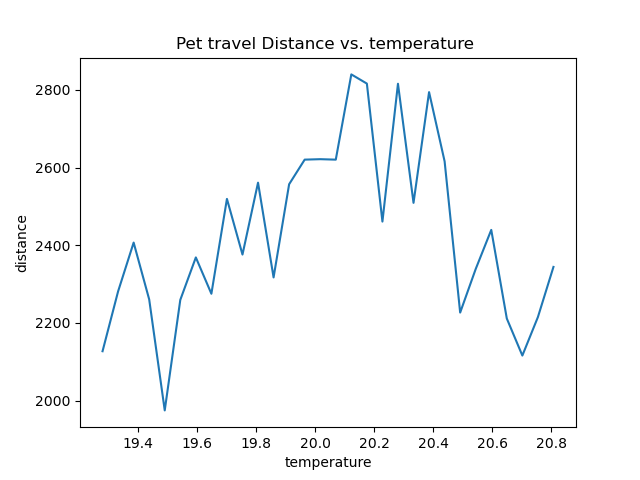
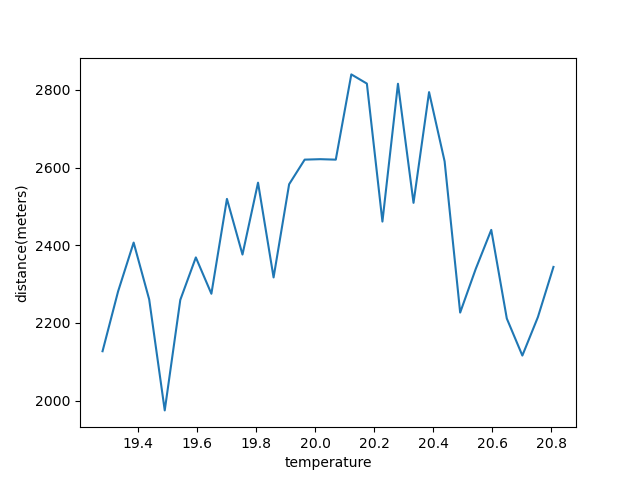
new

Changed region(s): [[0.2812, 0.0625, 0.75, 0.125], [0.0, 0.375, 0.0625, 0.625]]

diff --git a/plotApplication.py b/plotApplication.py
@@ -14,7 +14,7 @@ def plotModelCSM(modelName,df): #CSM
     #plt.figure(figsize=(8,5))
     ax = plt.subplot(1,1,1)
     title = modelName + '_CSM'
-    plt.title(title)
+    #plt.title(title)
     plotSub(x,csm,ax,label='CSM')
     
     plt.xticks(np.arange(1, 12))
@@ -25,12 +25,41 @@ def plotModelCSM(modelName,df): #CSM
     plt.savefig(gRes+title+'.png')
     plt.show()
     
+def plotModelCSMAx(modelName,ax,df,label='',c='b'): #CSM
+    x = df.loc[:,['K']].values #K
+    csm = df.loc[:,['CSM']]
+    
+    #plt.figure(figsize=(8,5))
+    #title = modelName + '_CSM'
+    #plt.title(title)
+    plotSub(x,csm,ax,label=label,c=c)
+    
+    plt.xticks(np.arange(1, 12))
+    ax.set_ylabel('Silhouette coefficient')
+    ax.set_xlabel('K clusters')
+    
+def plotModelTimeTakenAx(modelName,ax,df,label='',c='b'): #CSM
+    x = df.loc[:,['K']].values #K
+    tt = df.loc[:,['tt(s)']]
+    
+    #plt.figure(figsize=(8,5))
+    #title = modelName + '_CSM'
+    #plt.title(title)
+    plotSub(x,tt,ax,label=label,c=c)
+    
+    plt.xticks(np.arange(1, 12))
+    ax.set_ylabel('Time taken(s)')
+    ax.set_xlabel('K clusters')
+    
+    
 def trackingPlot(df,date='2020-06-01'): ##per day
     ax = plt.subplot(1,1,1)
     trackingPlotAx(ax,df,date,title='Pet tracking'+' ' + date)
     plt.legend()
     plt.subplots_adjust(left=0.18, bottom=None, right=None, top=None, wspace=None, hspace=None)
     plt.grid()
+    plt.xlabel('Longitude')
+    plt.ylabel('Latitude')
     plt.savefig(gRes+'locationTracking_'+date+'.png')
     plt.show()
     
@@ -43,7 +72,7 @@ def trackingPlotAx(ax,df,date='2020-06-01',title='Pet tracking'):
     
     #plt.figure(figsize=(8,5))
     #ax.set_title('Pet tracking'+' ' + date)
-    ax.set_title(title)
+    #ax.set_title(title)
     if 1:
         plotSub(lg,lt,ax,label='GPS locations',c='k')
         scatterSub(lg,lt,ax,marker='o',c='b')
@@ -95,7 +124,7 @@ def plotPdColumn(index,data,title,label,color=None,xlabel='',ylabel='',width=0.6
     fontsize = 8
     ax = plt.subplot(1,1,1)
     
-    ax.set_title(title) #,fontsize=fontsize
+    #ax.set_title(title) #,fontsize=fontsize
     #ax.barh(dfWorld.index,dfWorld['Cases'])
     if color:
         ax.bar(index,data,label=label,width=width,color=color)
@@ -134,9 +163,9 @@ def plotWeekDayDistanceAndTimeLen(df):
     dfStatisticWeekDay['timeLen'] =  dfStatisticWeekDay['timeLen']/60
     
     dfStatisticWeekDay.to_csv(r'./db/statistic_weekday_result.csv',index=True)
-    plotPdColumn(dfStatisticWeekDay['weekDay'],dfStatisticWeekDay['timeLen'],title='Pet mean travel time every weekday(miniutes)',label='travel_time',xlabel='WeekDay',ylabel='timeLen',width=0.35)
+    plotPdColumn(dfStatisticWeekDay['weekDay'],dfStatisticWeekDay['timeLen'],title='Pet mean travel time every weekday(miniutes)',label='travel_time',xlabel='WeekDay',ylabel='timeLen(miniutes)',width=0.35)
     #plotPdColumn(dfStatisticWeekDay['weekDay'],dfStatisticWeekDay['temperature_mean'],title='Mean temperature every weekday when pet travel',label='temperature',xlabel='WeekDay',ylabel='temperature')
-    plotPdColumn(dfStatisticWeekDay['weekDay'],dfStatisticWeekDay['distance_weekday'],title='Pet mean travel distance every weekday(meters)',label='weekday_distance',xlabel='WeekDay',ylabel='distance',width=0.35)
+    plotPdColumn(dfStatisticWeekDay['weekDay'],dfStatisticWeekDay['distance_weekday'],title='Pet mean travel distance every weekday(meters)',label='weekday_distance',xlabel='WeekDay',ylabel='distance(meters)',width=0.35)
     
 def plotDateDistanceAndTimeLen(df):
     #df = binaryDf(df,False)
@@ -146,8 +175,8 @@ def plotDateDistanceAndTimeLen(df):
     df = df.iloc[-1*30:,:]
     
     df['timeLen'] =  df['timeLen']/60
-    plotPdColumn(df['date'],df['timeLen'],title='Pet travel time every day(miniutes)',label='travel_time',xlabel='Date',ylabel='timeLen')
-    plotPdColumn(df['date'],df['distance_day'],title='Pet travel distance every day(meters)',label='travel_distance',xlabel='Date',ylabel='distance')
+    plotPdColumn(df['date'],df['timeLen'],title='Pet travel time every day(miniutes)',label='travel_time',xlabel='Date',ylabel='timeLen(miniutes)')
+    plotPdColumn(df['date'],df['distance_day'],title='Pet travel distance every day(meters)',label='travel_distance',xlabel='Date',ylabel='distance(meters)')
     
 def plotTempAndDistance(df):
     def HandelTempAndDistance(df,N=2):
@@ -173,13 +202,13 @@ def plotTempAndDistance(df):
     df = HandelTempAndDistance(df)
     #print(df)
     
-    plot(df['temperature_mean'],df['distance_day'],title='Pet travel Distance vs. temperature ',xlabel='temperature',ylabel='distance')
+    plot(df['temperature_mean'],df['distance_day'],title='Pet travel Distance vs. temperature ',xlabel='temperature',ylabel='distance(meters)')
     
 def plot(x,y,title='',xlabel='',ylabel=''):
     global gIndex
     x = np.linspace(np.min(x),np.max(x),len(y))
     #plt.scatter(x,y)
-    plt.title(title)
+    #plt.title(title)
     plt.plot(x,y)
     plt.xlabel(xlabel)
     plt.ylabel(ylabel)
@@ -193,11 +222,78 @@ def plotAll(df):
     plotTempAndDistance(df)
     pass
 
+def plotClustering():
+    df1 = getCsv('./db/KMeans_result.csv')
+    df2 = getCsv('./db/Agglomerative_result.csv')
+    #plotModelCSM('A',df1)
+    #plotModelCSM('K',df2)
+    
+    ax = plt.subplot(1,1,1)
+    plotModelCSMAx('K',ax,df1,label='K-Means')
+    plotModelCSMAx('A',ax,df2,label='Agglomerative',c='r')
+    ax.legend()
+    ax.grid()
+    plt.savefig(gRes+'KA.png')
+    plt.show()
+    
+    ax = plt.subplot(1,1,1)
+    plotModelTimeTakenAx('K',ax,df1,label='K-Means')
+    plotModelTimeTakenAx('A',ax,df2,label='Agglomerative',c='r')
+    ax.legend()
+    ax.grid()
+    plt.savefig(gRes+'KATt.png')
+    plt.show()
+    
+def plotCLusteringResult(rawData, labels):
+    cluster_labels = np.unique(labels)
+    print('cluster_labels=',cluster_labels)
+    # print(rawData.shape)
+    # print(rawData[:5])
+    # print(labels.shape)
+    # print(labels)
+    ax = plt.subplot(1,1,1)
+    centroids = []
+    for i in cluster_labels:
+        lines = np.where(labels == i)
+        print(i,len(lines[0].flatten()))
+        #print(lines[0])
+        data = rawData.iloc[lines[0],:]
+        #print(data)
+        if 0:
+            latitudeCenter = round(np.mean(data['latitude']),8)
+            longitudeCenter = round(np.mean(data['longitude']),8)
+            x = data['latitude']
+            y = data['longitude']
+        else:
+            latitudeCenter = round(np.mean(data['latitude_center']),8)
+            longitudeCenter = round(np.mean(data['longitude_center']),8)
+            x = data['latitude_center']
+            y = data['longitude_center']
+        #ax.scatter(data['latitude_center'],data['longitude_center'])
+        
+        ax.scatter(x,y)
+        ax.scatter(latitudeCenter,longitudeCenter, s=50, c='lightgreen', marker='s', edgecolor='black', label='cluster center'+str(i))    
+        # if i==0:
+        #     ax.scatter(x,y, s=50, c='lightgreen', marker='s', edgecolor='black', label='cluster 1')    
+        # elif i==1:
+        #     ax.scatter(x,y, s=50, c='orange', marker='o', edgecolor='black', label='cluster 2')    
+        # else:
+        #     ax.scatter(x,y, s=50, c='lightblue', marker='v', edgecolor='black', label='cluster 3') 
+     
+    ax.legend()
+    plt.xlabel('Longitude')
+    plt.ylabel('Latitude')
+    plt.subplots_adjust(left=0.15, bottom=None, right=None, top=None, wspace=None, hspace=None)
+    plt.savefig(gRes+'clusterResut.png')       
+    plt.show()    
+
+    
 def main():
     df = getCsv('./db/statistic_result.csv')
     #print(df)
     plotAll(df)
-        
+    plotClustering()
+    
 if __name__=='__main__':
     main()
     

diff --git a/locationClustering.py b/locationClustering.py
@@ -13,7 +13,7 @@ from modelCreate import createKMeans,createAgglomerate,createDBSCAN
 from modelCreate import calculateSSE,calculateDaviesBouldin
 from visualClustering import visualClusterResult,plotSilhouetteValues
 from genPetData import getCsv
-from plotApplication import plotModelCSM
+from plotApplication import plotModelCSM,plotCLusteringResult
 
 def getModelMeasureByModel(data,model):
     return getModelMeasure(data,model.labels_)
@@ -60,6 +60,12 @@ def preprocessingData(data):
     descriptData(data)
     return data
 
+def Models():
+    models = []
+    models.append(('KMeans',createKMeans))
+    models.append(('DBSCAN',createAgglomerate))
+    return models
+
 def trainModel(dataName,data,N=11): 
     data = preprocessingData(data)
     
@@ -71,7 +77,7 @@ def trainModel(dataName,data,N=11):
             modelName='KMeans'       
             model = createKMeans(i)
         else:
-            modelName='Agglomerate'       
+            modelName='Agglomerative'       
             model = createAgglomerate(i)
         
         t = time()
@@ -89,13 +95,13 @@ def trainModel(dataName,data,N=11):
         #print('cluster_labels=',np.unique(model.labels_))
 
     #print(df)
+    df.to_csv(r'./db/' + modelName + '_result.csv',index=True)
     
-    plotModelCSM(modelName,df)
-    
-    index,bestK = getBestkFromCSM(dataName,modelName,df)
-    bestLine = df.iloc[index,:]
+    #plotModelCSM(modelName,df)
+    #index,bestK = getBestkFromCSM(dataName,modelName,df)
+    #bestLine = df.iloc[index,:]
     #print('bestLine=',index,'bestK=',bestK,'df=\n',bestLine)
-    return bestLine
+    #return bestLine
     
 def getBestkFromCSM(datasetName,modelName,df):
     print('df=\n',df)
@@ -108,9 +114,14 @@ def getBestkFromCSM(datasetName,modelName,df):
     return index,bestK
     
 def prepareDataSet():
-    df = getCsv('./db/petIotRecordsAll.csv')
-    df = df.loc[:,['latitude','longitude']]
-    #df = df[:100]
+    if 0:
+        df = getCsv('./db/petIotRecordsAll.csv')
+        df = df.loc[:,['latitude','longitude']]
+        #df = df[:100]
+    else:
+        df = getCsv('./db/statistic_result.csv')
+        df = df.loc[:,['latitude_center','longitude_center']]
+    
     return df
 
 #cluster: 0 latitude: -36.8542531 longitude 174.76641334
@@ -127,13 +138,18 @@ def getCulteredCentroid(rawData, labels):
     centroids = []
     for i in cluster_labels:
         lines = np.where(labels == i)
-        #print(i,len(lines[0].flatten()))
+        print(i,len(lines[0].flatten()))
         #print(lines[0])
         data = rawData.iloc[lines[0],:]
         #print(data)
-        latitudeCenter = round(np.mean(data['latitude']),8)
-        longitudeCenter = round(np.mean(data['longitude']),8)
-        #print('cluster:',i,'latitude:', latitudeCenter,'longitude', longitudeCenter)
+        if 0:
+            latitudeCenter = round(np.mean(data['latitude']),8)
+            longitudeCenter = round(np.mean(data['longitude']),8)
+        else:
+            latitudeCenter = round(np.mean(data['latitude_center']),8)
+            longitudeCenter = round(np.mean(data['longitude_center']),8)
+            
+        print('cluster:',i,'latitude:', latitudeCenter,'longitude', longitudeCenter)
         centroids.append([latitudeCenter,longitudeCenter])
     return centroids
       
@@ -155,10 +171,12 @@ def train(rawData):
     centroids = getCulteredCentroid(rawData,model.labels_)
     print('centroids=',centroids)
     
+    plotCLusteringResult(rawData,model.labels_)
+    
 def main():
     rawData = prepareDataSet()
-    trainModel('petGPSLocation',rawData)
-    #train(rawData)
+    #trainModel('petGPSLocation',rawData)
+    train(rawData)
     
 if __name__ == "__main__":
     main()

diff --git a/main.py b/main.py
@@ -94,8 +94,8 @@ def testTracking():
     else:
         dfs = []
         dfs.append(df[df['date'] == '2020-05-01'])
-        dfs.append(df[df['date'] == '2020-05-02'])
-        dfs.append(df[df['date'] == '2020-05-03'])
+        #dfs.append(df[df['date'] == '2020-05-04'])
+        #dfs.append(df[df['date'] == '2020-05-06'])
         trackingCentroidsPlot(dfs,date=first)
         '''
         ax = plt.subplot(1,1,1)
@@ -108,7 +108,7 @@ def testTracking():
         '''
         
 def main():
-    parseAllData()
+    #parseAllData()
     testTracking()
     pass
 

diff --git a/plotCommon.py b/plotCommon.py
@@ -13,7 +13,7 @@ def plotSub(x,y,ax=None, aspect=False, label='',c='b',marker='.'):
     #ax.title.set_text(name)
     if aspect:
         ax.set_aspect(1)
-    ax.legend()
+    #ax.legend()
     
 # def plotSub(x,y,ax=None, aspect=False, label='',c='k'):
 #     ax.plot(x,y,label=label,c=c)
